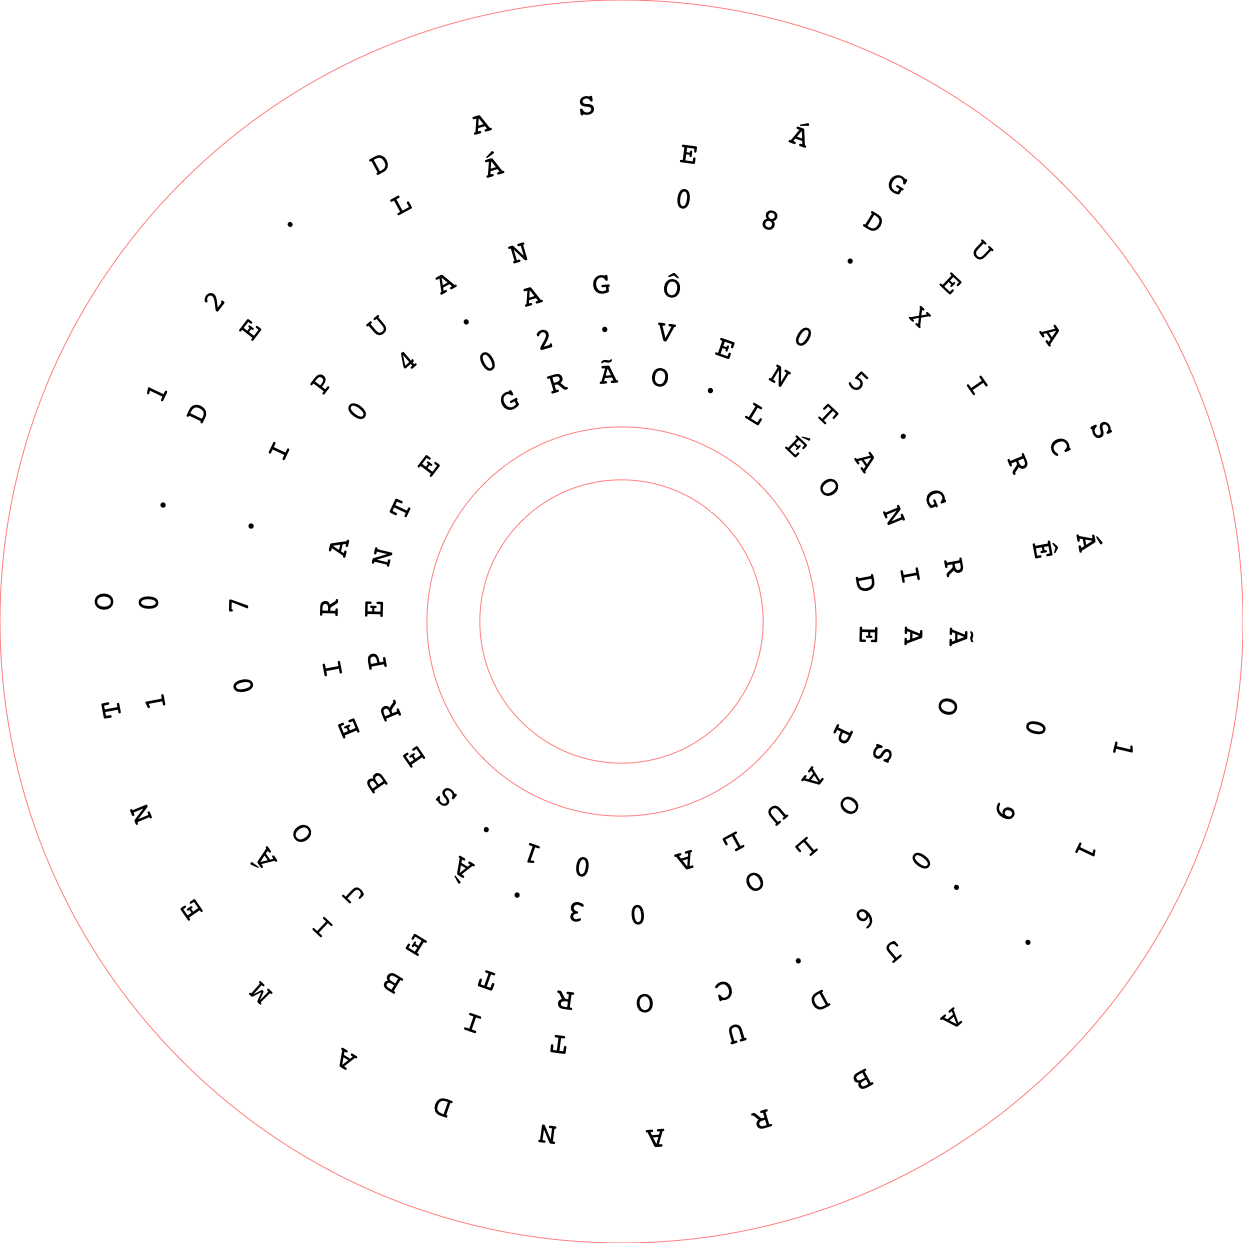
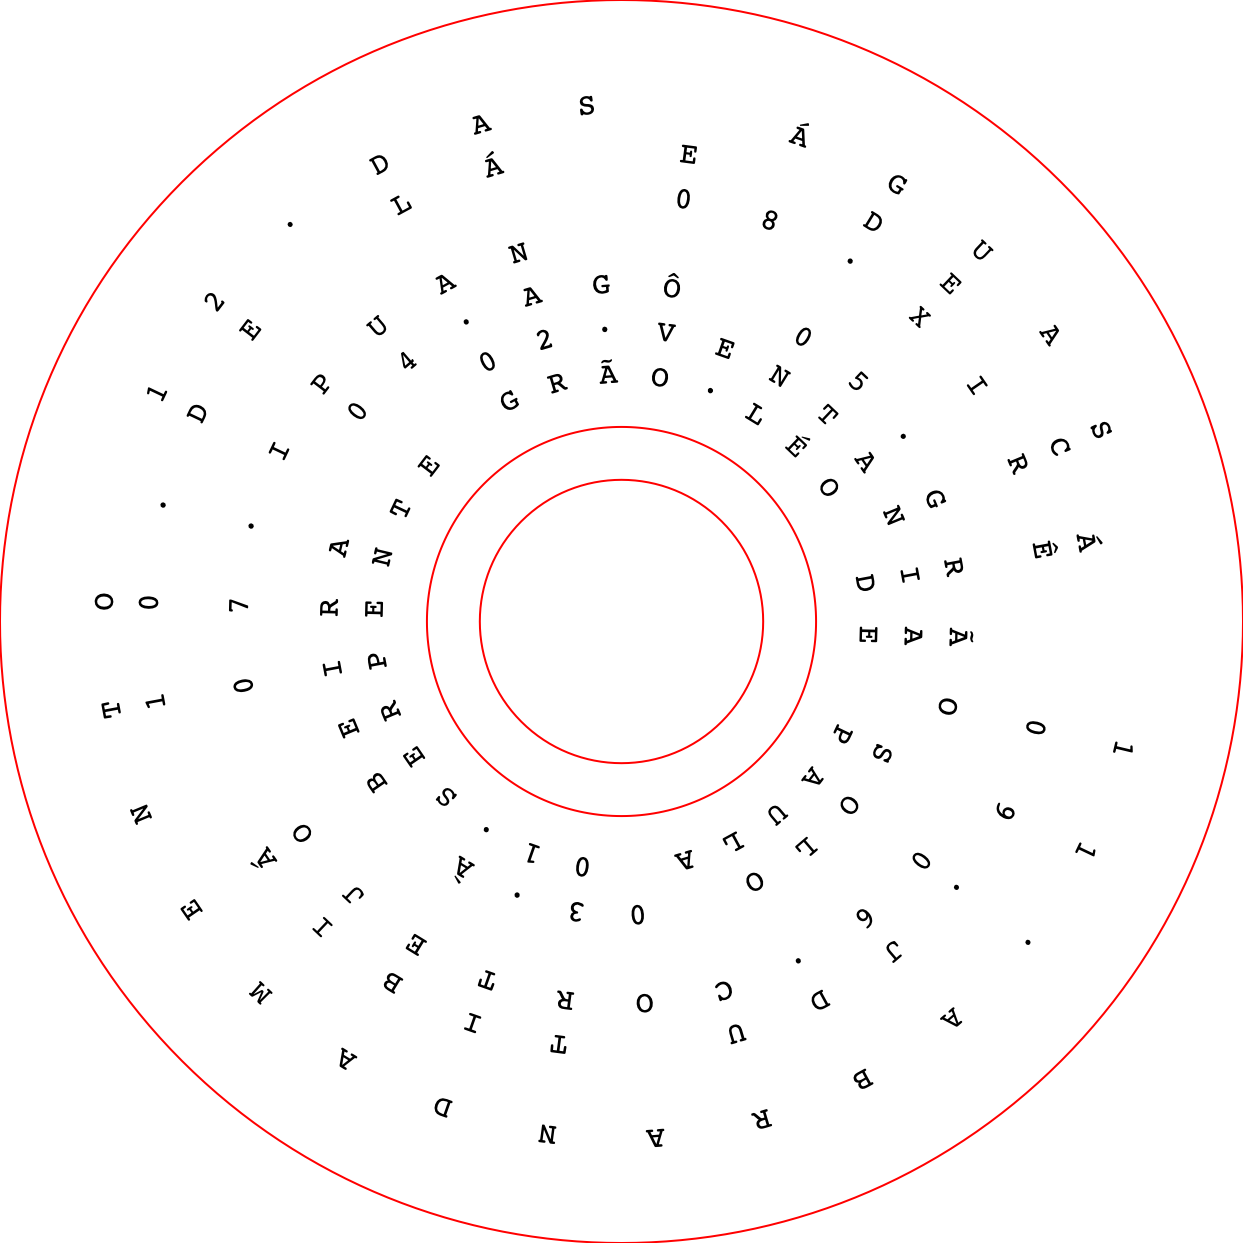
update examples and README.md

diff --git a/concentric-circles-text.py b/concentric-circles-text.py
@@ -19,7 +19,7 @@ def draw_cd():
     cd_hole_diameter = 75 * SCALE_MM_TO_PX
 
     with savedState():
-        strokeWidth(.5)
+        strokeWidth(2)
         stroke(1, 0, 0)
         oval(0, 0, cd_diameter,cd_diameter)
         oval(width / 2 - cd_center_diameter / 2, height / 2 - cd_center_diameter / 2, cd_center_diameter, cd_center_diameter)
@@ -190,6 +190,6 @@ print('font size:', int(FONT_SIZE))
 print('min radius:', int(RADIUS_START))
 print('steps:', int(STEPS))
 
-# saveImage('./examples/grao-territorio-percussivo.png')
-# saveImage('./examples/grao-territorio-percussivo.svg')
-# saveImage('./examples/grao-territorio-percussivo.pdf')
+saveImage('./examples/grao-territorio-percussivo.png')
+saveImage('./examples/grao-territorio-percussivo.svg')
+saveImage('./examples/grao-territorio-percussivo.pdf')
